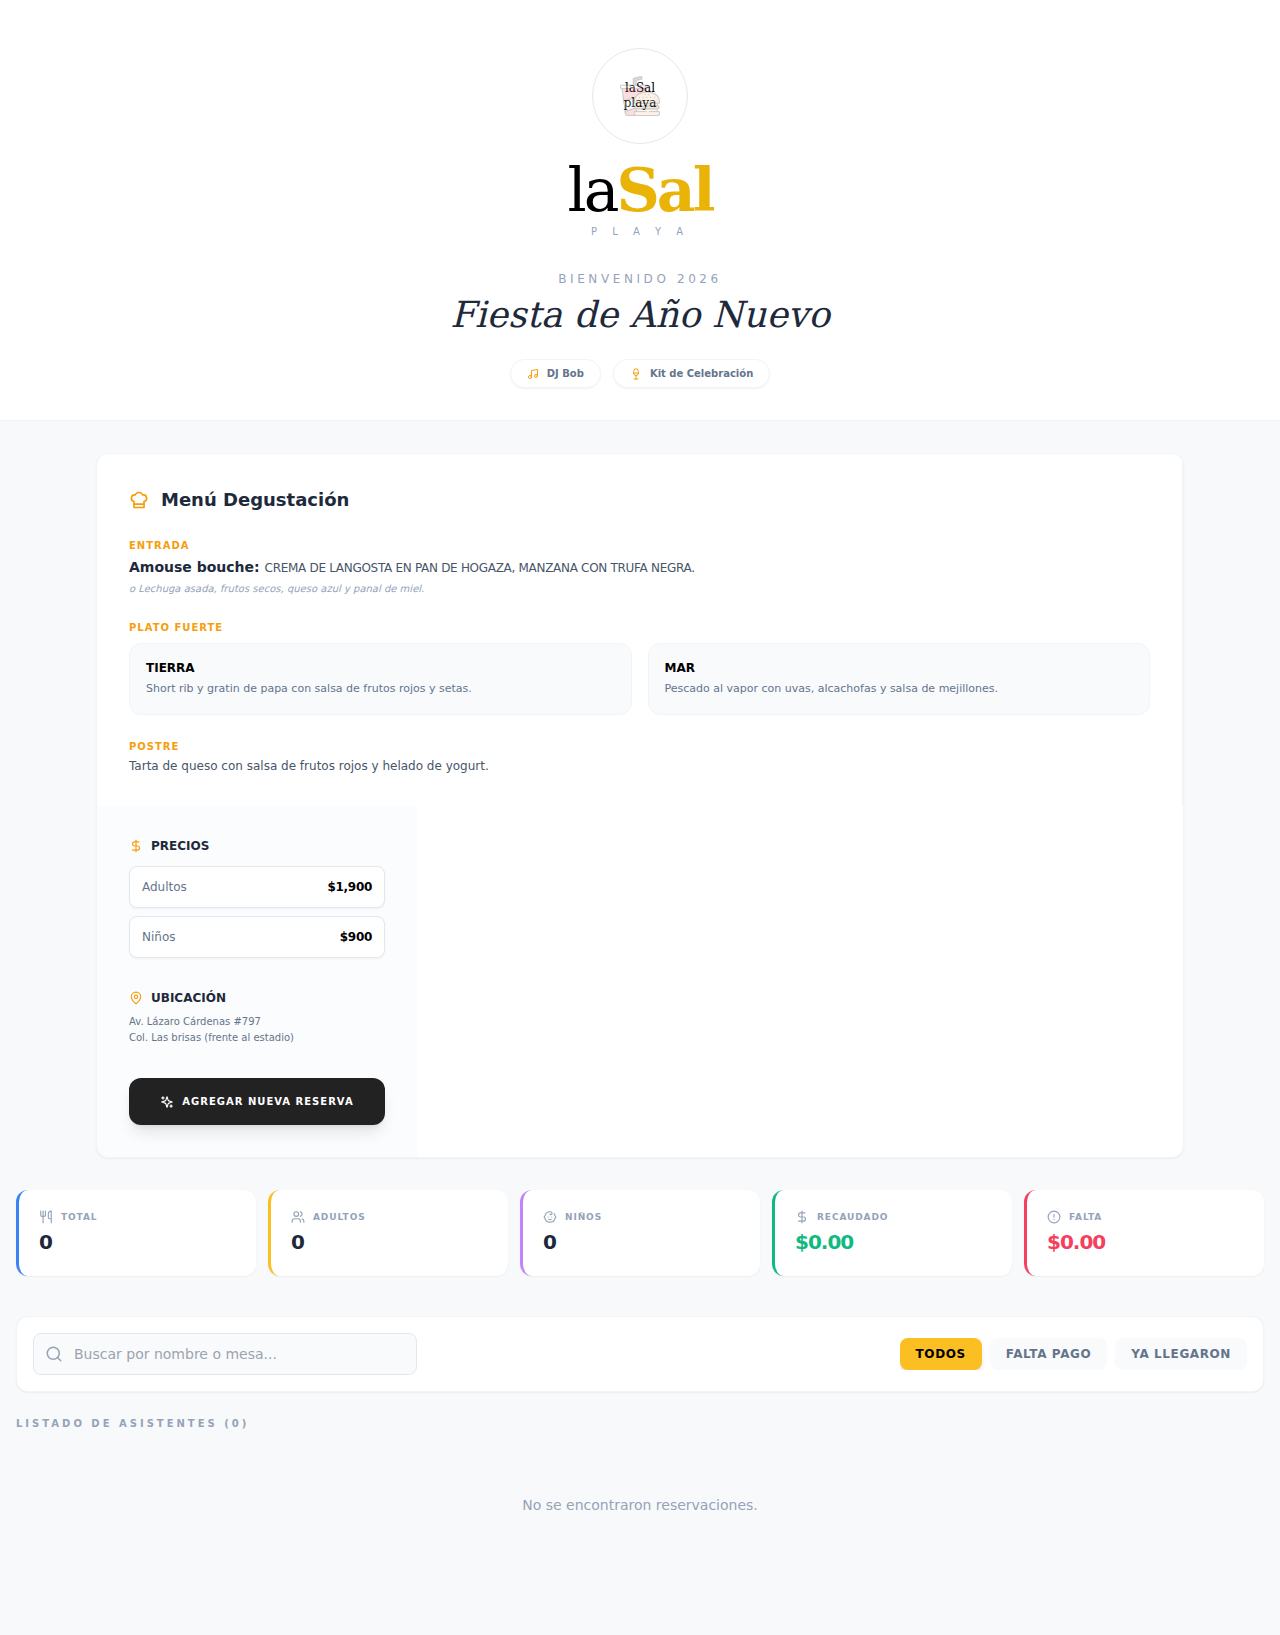
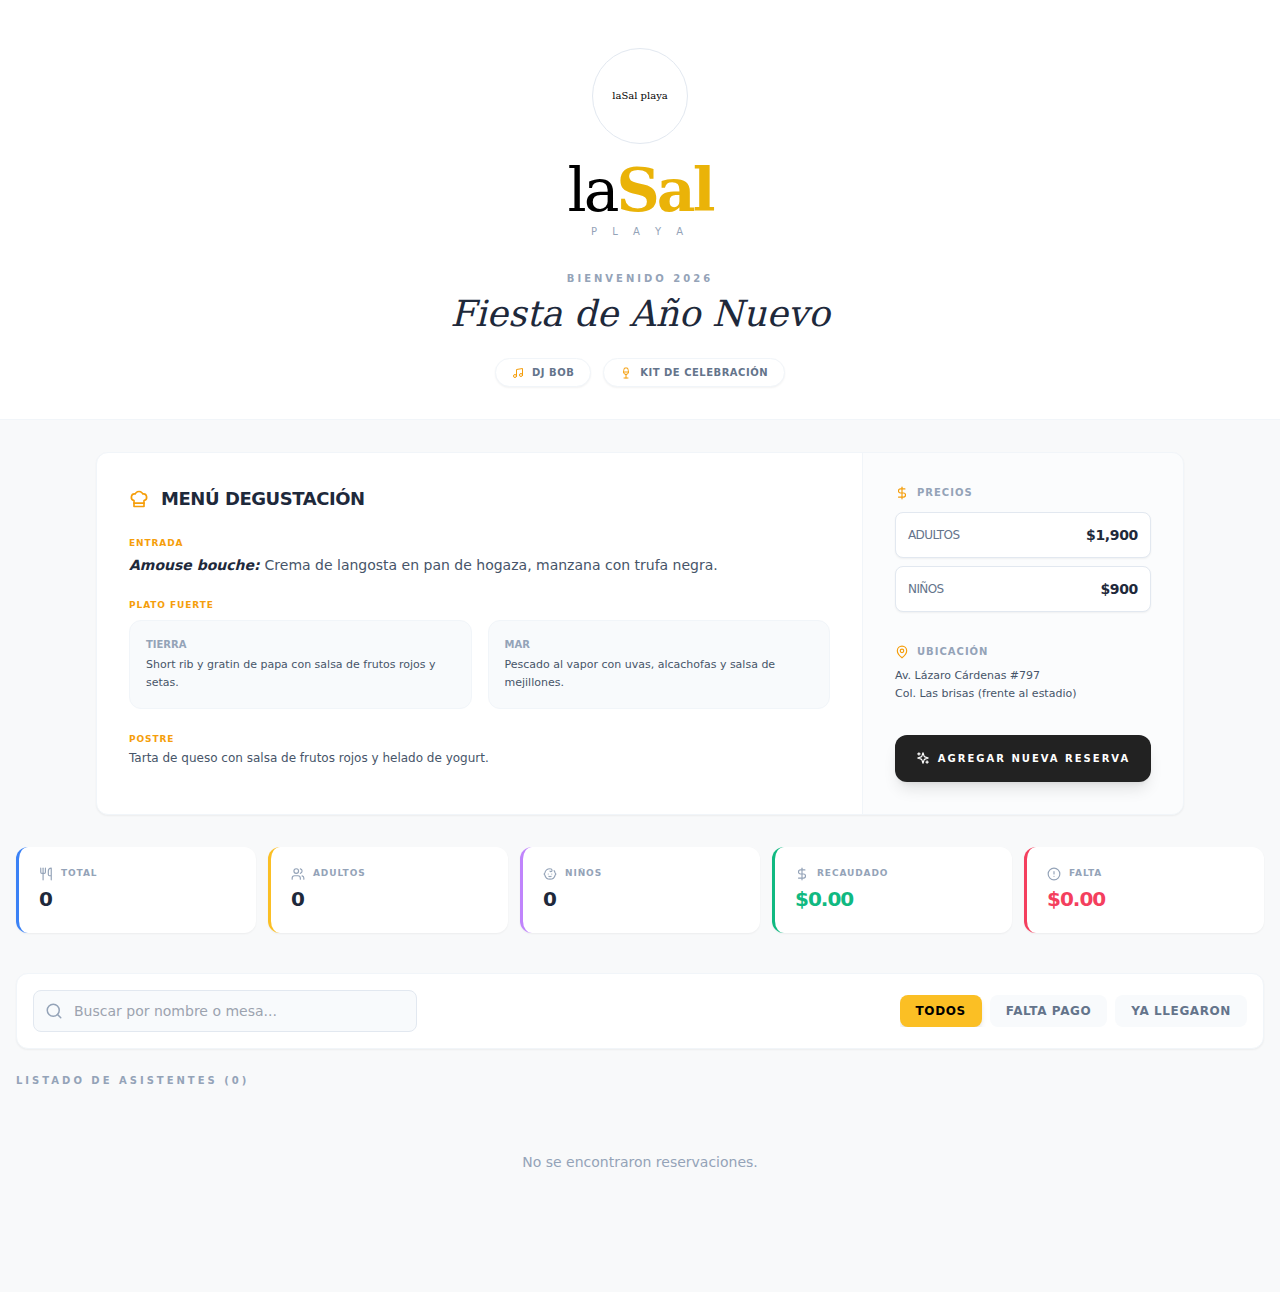
feat: finalize laSal Playa PWA UI and functionality
- Update UI components (Header, Menu, Stats) with refined 'Luxury Beach' styling and 'BIENVENIDO 2026' theme.
- Restore Search, Filter, and Check-in functionality merged into the new UI layout.
- Fix truncation issue in the Stats component logic.
- Update Supabase subscription channel to 'cambios-reales'.
- Ensure all reservation math logic is consistent ($1900/Adult, $900/Child).

diff --git a/la-sal-pwa/src/App.jsx b/la-sal-pwa/src/App.jsx
@@ -5,6 +5,7 @@ import {
   ChefHat, Music, Wine, Utensils, Baby, AlertCircle, CheckCircle, Search, Filter
 } from 'lucide-react';
 
+// Conexión con Supabase
 const supabaseUrl = import.meta.env.VITE_SUPABASE_URL;
 const supabaseKey = import.meta.env.VITE_SUPABASE_ANON_KEY;
 const supabase = createClient(supabaseUrl, supabaseKey);
@@ -20,18 +21,17 @@ export default function App() {
 
   useEffect(() => {
     fetchReservations();
+    // Suscripción en tiempo real
     const channel = supabase
-      .channel('schema-db-changes')
+      .channel('cambios-reales')
       .on('postgres_changes', { event: '*', schema: 'public', table: 'reservaciones' }, () => fetchReservations())
       .subscribe();
     return () => supabase.removeChannel(channel);
   }, []);
 
   async function fetchReservations() {
-    // If connected to real DB, this works. For now, if empty, we can seed dummy data?
-    // But user provided code assumes real DB. I will keep it as is.
     const { data } = await supabase.from('reservaciones').select('*').order('created_at', { ascending: false });
-    if (data) setReservations(data);
+    setReservations(data || []);
     setLoading(false);
   }
 
@@ -56,69 +56,69 @@ export default function App() {
 
   const formatCurr = (n) => new Intl.NumberFormat('es-MX', { style: 'currency', currency: 'MXN' }).format(n);
 
-  // Cálculos Globales
+  // Cálculos para la barra superior
   const totalAdults = reservations.reduce((acc, r) => acc + (r.adultos || 0), 0);
   const totalKids = reservations.reduce((acc, r) => acc + (r.ninos || 0), 0);
   const totalRecaudado = reservations.reduce((acc, r) => acc + (r.monto_pagado || 0), 0);
   const totalEventValue = reservations.reduce((acc, r) => acc + (r.adultos * PRICE_ADULT) + (r.ninos * PRICE_KID), 0);
   const totalFalta = totalEventValue - totalRecaudado;
 
+  if (loading) return <div className="p-10 text-center font-serif">Cargando laSal playa...</div>;
+
   return (
     <div className="min-h-screen bg-[#F8F9FA] font-sans pb-20">
 
-      {/* HEADER / LOGO SECTION */}
+      {/* SECCIÓN DE LOGO Y BIENVENIDA */}
       <header className="pt-12 pb-8 px-4 text-center bg-white border-b border-slate-100">
         <div className="flex justify-center mb-4">
-          <div className="w-24 h-24 rounded-full border border-slate-200 flex items-center justify-center p-4 relative">
-             <img src="https://cdn-icons-png.flaticon.com/512/3655/3655682.png" className="w-10 opacity-20 absolute" alt="" />
-             <span className="text-xs font-serif font-light leading-tight">laSal playa</span>
+          <div className="w-24 h-24 rounded-full border border-slate-200 flex items-center justify-center p-4 relative overflow-hidden">
+             <span className="text-[10px] font-serif font-light leading-tight text-center">laSal playa</span>
           </div>
         </div>
         <h1 className="text-6xl font-serif tracking-tighter mb-1">la<span className="font-bold text-[#EAB308]">Sal</span></h1>
         <p className="text-[10px] tracking-[0.6em] uppercase text-slate-400 mb-8">P L A Y A</p>
 
-        <p className="text-slate-400 text-xs uppercase tracking-[0.3em] mb-2">BIENVENIDO 2026</p>
-        <h2 className="text-4xl font-serif italic text-slate-800 mb-6">Fiesta de Año Nuevo</h2>
+        <p className="text-slate-400 text-[10px] uppercase tracking-[0.3em] mb-2 font-bold">BIENVENIDO 2026</p>
+        <h2 className="text-4xl font-serif italic text-slate-800 mb-6 font-light">Fiesta de Año Nuevo</h2>
 
         <div className="flex justify-center gap-3">
-          <span className="bg-white border border-slate-100 px-4 py-1.5 rounded-full text-[10px] font-bold text-slate-500 flex items-center gap-2 shadow-sm">
+          <span className="bg-white border border-slate-100 px-4 py-1.5 rounded-full text-[10px] font-bold text-slate-500 flex items-center gap-2 shadow-sm uppercase tracking-wider">
             <Music size={12} className="text-amber-500" /> DJ Bob
           </span>
-          <span className="bg-white border border-slate-100 px-4 py-1.5 rounded-full text-[10px] font-bold text-slate-500 flex items-center gap-2 shadow-sm">
+          <span className="bg-white border border-slate-100 px-4 py-1.5 rounded-full text-[10px] font-bold text-slate-500 flex items-center gap-2 shadow-sm uppercase tracking-wider">
             <Wine size={12} className="text-amber-500" /> Kit de Celebración
           </span>
         </div>
       </header>
 
-      {/* MENU & INFO SECTION */}
+      {/* MENÚ Y PRECIOS */}
       <div className="max-w-6xl mx-auto p-4 md:p-8">
-        <div className="bg-white rounded-xl shadow-sm border border-slate-100 overflow-hidden flex flex-col md:row flex-wrap lg:flex-nowrap">
-          {/* Menú */}
-          <div className="p-8 flex-1 border-b md:border-b-0 md:border-r border-slate-100">
-            <h3 className="flex items-center gap-3 text-lg font-bold text-slate-800 mb-6">
+        <div className="bg-white rounded-xl shadow-sm border border-slate-100 overflow-hidden flex flex-wrap lg:flex-nowrap">
+          {/* Columna Menú */}
+          <div className="p-8 flex-1 border-b lg:border-b-0 lg:border-r border-slate-100">
+            <h3 className="flex items-center gap-3 text-lg font-bold text-slate-800 mb-6 uppercase tracking-tight">
               <ChefHat size={20} className="text-amber-500" /> Menú Degustación
             </h3>
             <div className="space-y-6">
               <div>
-                <p className="text-[10px] font-black text-amber-500 uppercase tracking-widest mb-1">Entrada</p>
-                <p className="text-sm font-bold text-slate-800">Amouse bouche: <span className="font-normal text-slate-600 uppercase text-xs tracking-tight">Crema de langosta en pan de hogaza, manzana con trufa negra.</span></p>
-                <p className="text-[10px] italic text-slate-400 mt-1">o Lechuga asada, frutos secos, queso azul y panal de miel.</p>
+                <p className="text-[9px] font-black text-amber-500 uppercase tracking-widest mb-1">Entrada</p>
+                <p className="text-sm font-bold text-slate-800 italic">Amouse bouche: <span className="font-normal text-slate-600 not-italic">Crema de langosta en pan de hogaza, manzana con trufa negra.</span></p>
               </div>
               <div>
-                <p className="text-[10px] font-black text-amber-500 uppercase tracking-widest mb-2">Plato Fuerte</p>
+                <p className="text-[9px] font-black text-amber-500 uppercase tracking-widest mb-2">Plato Fuerte</p>
                 <div className="grid grid-cols-1 md:grid-cols-2 gap-4">
                   <div className="bg-slate-50 p-4 rounded-xl border border-slate-100">
-                    <p className="text-xs font-bold mb-1 uppercase">Tierra</p>
-                    <p className="text-[11px] text-slate-500 leading-relaxed">Short rib y gratin de papa con salsa de frutos rojos y setas.</p>
+                    <p className="text-[10px] font-black mb-1 uppercase text-slate-400">Tierra</p>
+                    <p className="text-[11px] text-slate-600 font-medium leading-relaxed">Short rib y gratin de papa con salsa de frutos rojos y setas.</p>
                   </div>
                   <div className="bg-slate-50 p-4 rounded-xl border border-slate-100">
-                    <p className="text-xs font-bold mb-1 uppercase">Mar</p>
-                    <p className="text-[11px] text-slate-500 leading-relaxed">Pescado al vapor con uvas, alcachofas y salsa de mejillones.</p>
+                    <p className="text-[10px] font-black mb-1 uppercase text-slate-400">Mar</p>
+                    <p className="text-[11px] text-slate-600 font-medium leading-relaxed">Pescado al vapor con uvas, alcachofas y salsa de mejillones.</p>
                   </div>
                 </div>
               </div>
               <div>
-                <p className="text-[10px] font-black text-amber-500 uppercase tracking-widest mb-1">Postre</p>
+                <p className="text-[9px] font-black text-amber-500 uppercase tracking-widest mb-1">Postre</p>
                 <p className="text-xs text-slate-600 font-medium">Tarta de queso con salsa de frutos rojos y helado de yogurt.</p>
               </div>
             </div>
@@ -127,37 +127,37 @@ export default function App() {
           {/* Lateral Info */}
           <div className="p-8 w-full lg:w-80 bg-slate-50/50 space-y-8">
             <div>
-              <h4 className="flex items-center gap-2 text-xs font-bold text-slate-800 mb-3 uppercase">
+              <h4 className="flex items-center gap-2 text-[10px] font-black text-slate-400 mb-3 uppercase tracking-widest">
                 <DollarSign size={14} className="text-amber-500" /> Precios
               </h4>
               <div className="space-y-2">
                 <div className="bg-white p-3 rounded-lg border border-slate-200 flex justify-between items-center shadow-sm">
-                  <span className="text-xs text-slate-500">Adultos</span>
-                  <span className="text-xs font-black tracking-tight">$1,900</span>
+                  <span className="text-xs font-medium text-slate-500 uppercase tracking-tighter">Adultos</span>
+                  <span className="text-sm font-black text-slate-800 tracking-tight">$1,900</span>
                 </div>
                 <div className="bg-white p-3 rounded-lg border border-slate-200 flex justify-between items-center shadow-sm">
-                  <span className="text-xs text-slate-500">Niños</span>
-                  <span className="text-xs font-black tracking-tight">$900</span>
+                  <span className="text-xs font-medium text-slate-500 uppercase tracking-tighter">Niños</span>
+                  <span className="text-sm font-black text-slate-800 tracking-tight">$900</span>
                 </div>
               </div>
             </div>
             <div>
-              <h4 className="flex items-center gap-2 text-xs font-bold text-slate-800 mb-2 uppercase">
+              <h4 className="flex items-center gap-2 text-[10px] font-black text-slate-400 mb-2 uppercase tracking-widest">
                 <MapPin size={14} className="text-amber-500" /> Ubicación
               </h4>
-              <p className="text-[10px] leading-relaxed text-slate-500">
+              <p className="text-[11px] leading-relaxed text-slate-600 font-medium">
                 Av. Lázaro Cárdenas #797<br/>
                 Col. Las brisas (frente al estadio)
               </p>
             </div>
-            <button className="w-full bg-[#222] text-white py-4 rounded-xl font-bold text-[10px] uppercase tracking-widest flex items-center justify-center gap-2 hover:bg-black transition-all shadow-lg">
+            <button className="w-full bg-[#222] text-white py-4 rounded-xl font-black text-[10px] uppercase tracking-[0.2em] flex items-center justify-center gap-2 hover:bg-black transition-all shadow-lg">
               <Sparkles size={14} /> Agregar Nueva Reserva
             </button>
           </div>
         </div>
       </div>
 
-      {/* STATS BAR */}
+      {/* BARRA DE ESTADÍSTICAS */}
       <div className="max-w-7xl mx-auto px-4 grid grid-cols-2 md:grid-cols-5 gap-3 mb-10">
         {[
           { label: 'Total', value: totalAdults + totalKids, color: 'border-blue-500', icon: <Utensils size={14}/> },
